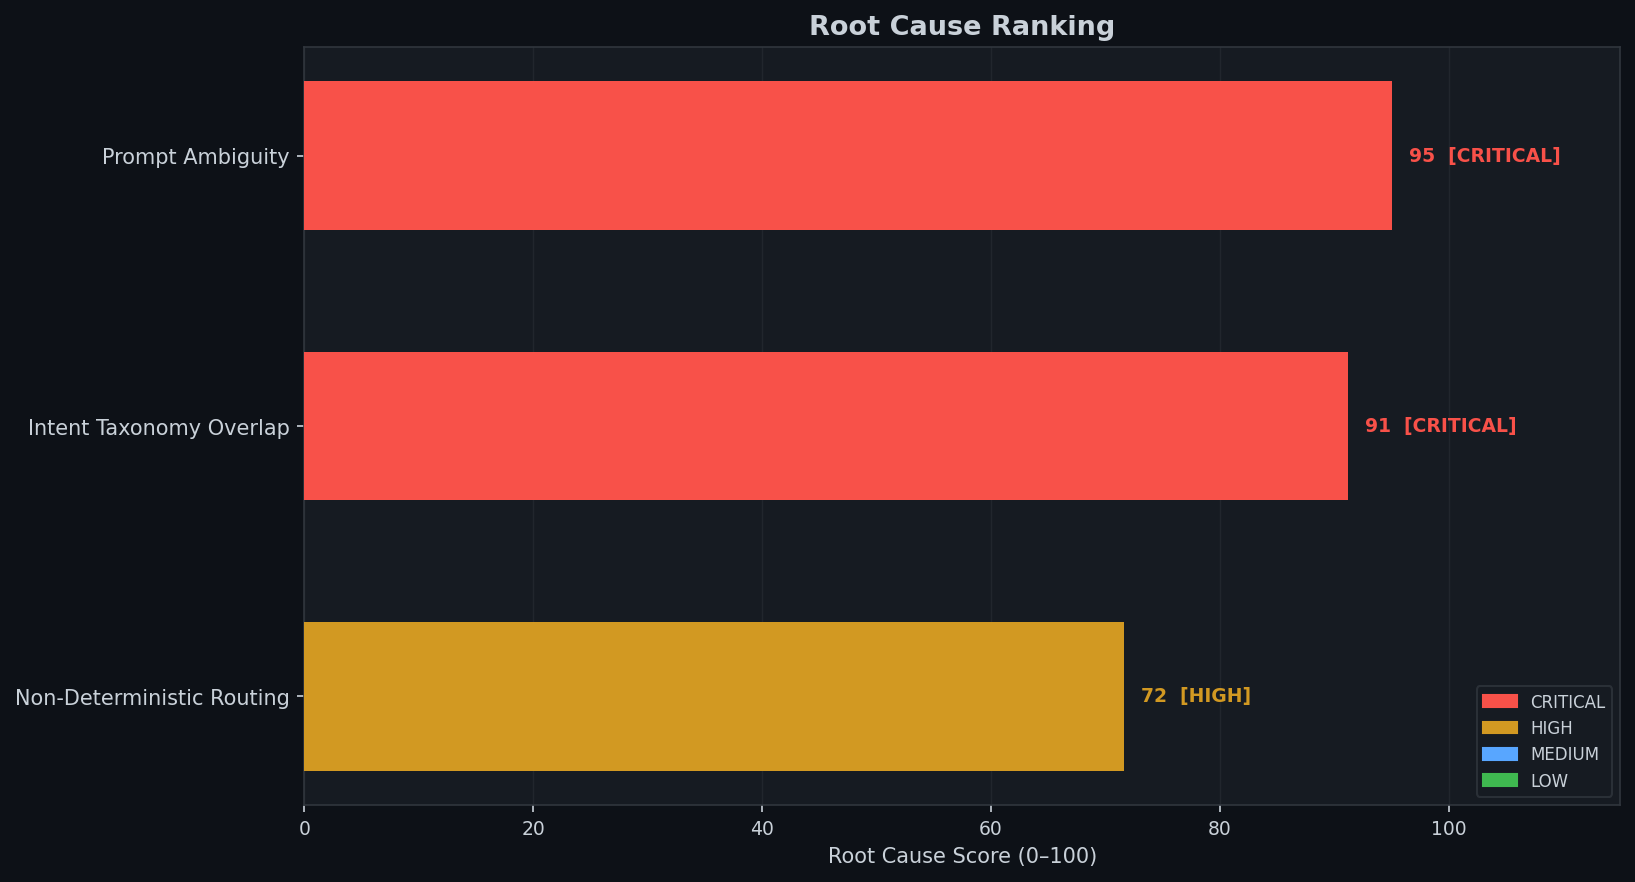
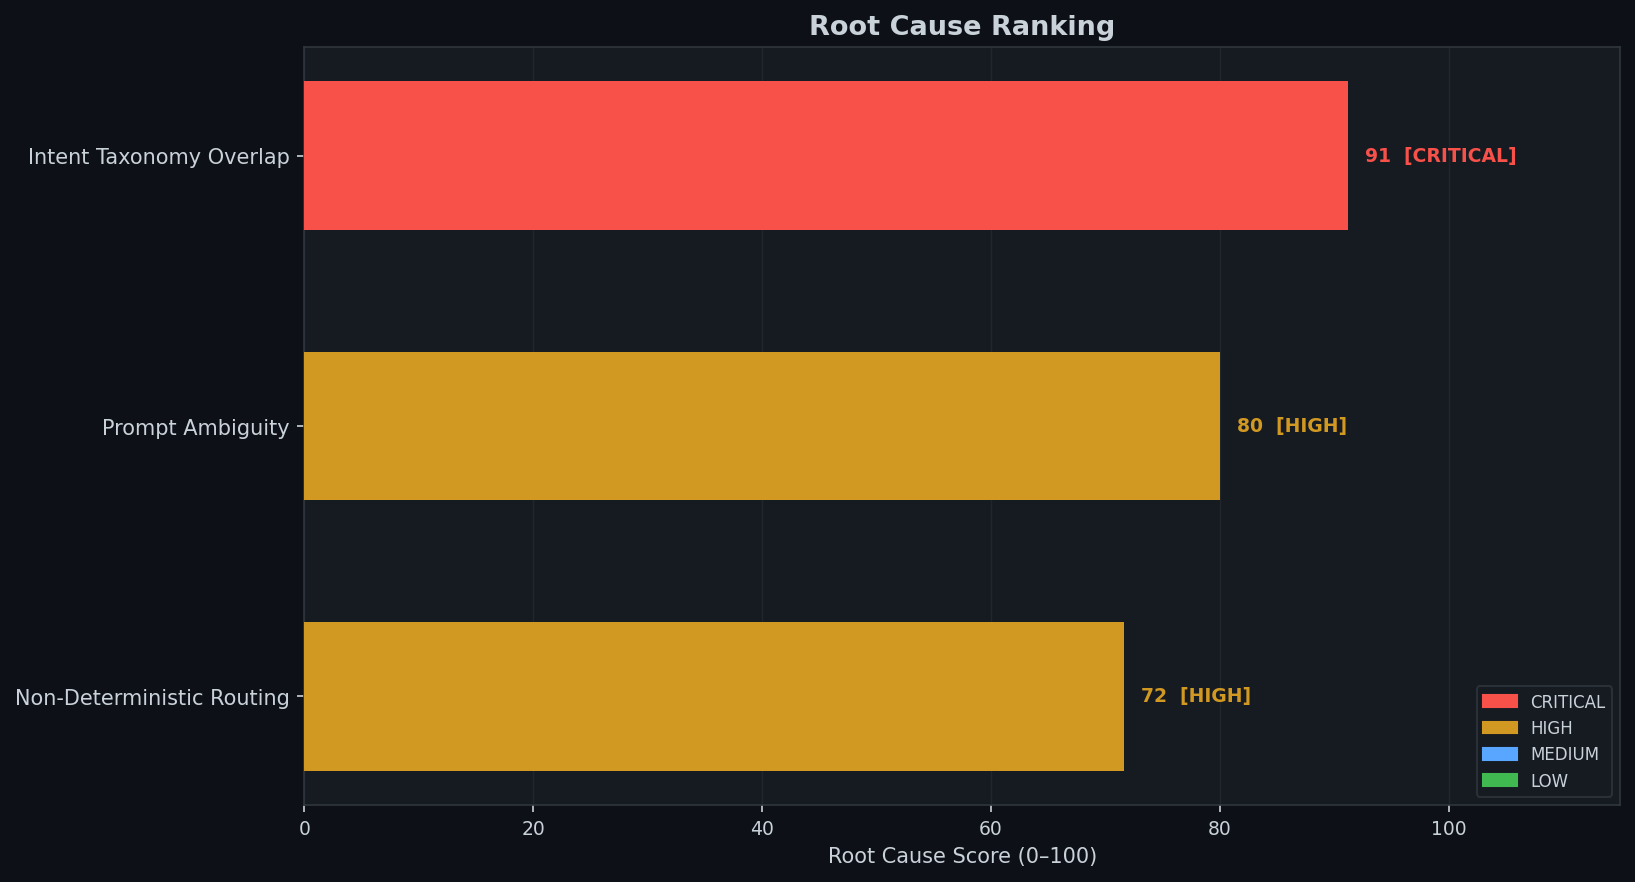
asd

Changed region(s): [[0.0312, 0.398, 0.9358, 0.5816], [0.811, 0.0918, 0.967, 0.2755], [0.0312, 0.1531, 0.1872, 0.1837]]

diff --git a/situation-02-root-cause-analysis/reports/root_cause_analysis_report.md b/situation-02-root-cause-analysis/reports/root_cause_analysis_report.md
@@ -1,16 +1,16 @@
 # ROOT CAUSE ANALYSIS REPORT
 ## Situation 2 — AI Quality Engineering Lab
 
-> Generated: 2026-06-27T16:43:10Z
-> Primary Root Cause: **Prompt Ambiguity** — Severity: **CRITICAL**
-> Secondary Root Cause: **Intent Taxonomy Overlap** — Severity: **CRITICAL**
-> Overall Impact: **CRITICAL**  |  Analysis Confidence: **HIGH**
+> Generated: 2026-06-27T18:31:47Z
+> Primary Root Cause: **Intent Taxonomy Overlap** — Severity: **CRITICAL**
+> Secondary Root Cause: **Prompt Ambiguity** — Severity: **HIGH**
+> Overall Impact: **CRITICAL**  |  Analysis Confidence: **MEDIUM**
 
 ---
 
 ## Executive Summary
 
-The primary driver of instability is prompt ambiguity. The input activates 3 competing intents simultaneously, providing no unambiguous signal for the classifier to resolve. Controlled experiments demonstrated that removing semantic ambiguity raised consistency from 53% to 100% (Cancel Only), confirming prompt ambiguity as the primary causal driver. Intent taxonomy overlap further amplifies instability by creating competing interpretations for the same user request — billing_issue, cancel_order, and refund_request share significant semantic space. Confidence volatility and routing variance are observable symptoms of these root causes — not independent causes themselves.
+The primary driver of instability is prompt ambiguity. The input activates 3 competing intents simultaneously, providing no unambiguous signal for the classifier to resolve. Intent taxonomy overlap further amplifies instability by creating competing interpretations for the same user request — billing_issue, cancel_order, and refund_request share significant semantic space. Confidence volatility and routing variance are observable symptoms of these root causes — not independent causes themselves.
 
 ---
 
@@ -46,16 +46,7 @@ Prompt Ambiguity
 
 ### Root Causes
 
-#### #1 — Prompt Ambiguity  `[Primary Root Cause]`
-**Severity:** CRITICAL  |  **Score:** 95.0/100
-
-The input activates multiple distinct intents simultaneously. No disambiguation strategy is applied at the input layer — the LLM must resolve genuine semantic uncertainty at inference time. Controlled experiments proved this is the primary causal driver: removing the ambiguity produced near-perfect consistency.
-
-**Evidence:** Ambiguity level: HIGH. 3 intents triggered simultaneously: billing_issue, cancel_order, refund_request. Controlled experiments confirmed causality: removing ambiguity raised consistency from 53% to 100% (Cancel Only). Delta: +47 percentage points.
-
-**Situation 3 Fix:** Implement semantic disambiguation at the input layer. Detect multi-intent inputs and resolve them before classification.
-
-#### #2 — Intent Taxonomy Overlap  `[Secondary Root Cause]`
+#### #1 — Intent Taxonomy Overlap  `[Secondary Root Cause]`
 **Severity:** CRITICAL  |  **Score:** 91.2/100
 
 billing_issue, cancel_order, and refund_request share significant semantic space. When an ambiguous input is presented, the classifier cannot distinguish between them cleanly — producing competing interpretations and split probability mass.
@@ -63,6 +54,15 @@ billing_issue, cancel_order, and refund_request share significant semantic space
 **Evidence:** Primary competing pair: billing_issue ↔ cancel_order (overlap score 45.6%). Top-2 co-occurrence: 64.0% of runs. Pearson r=-0.151.
 
 **Situation 3 Fix:** Redefine intent boundaries with mutually exclusive semantic criteria. Add explicit decision rules for overlapping domains.
+
+#### #2 — Prompt Ambiguity  `[Primary Root Cause]`
+**Severity:** HIGH  |  **Score:** 80.0/100
+
+The input activates multiple distinct intents simultaneously. No disambiguation strategy is applied at the input layer — the LLM must resolve genuine semantic uncertainty at inference time. Controlled experiments proved this is the primary causal driver: removing the ambiguity produced near-perfect consistency.
+
+**Evidence:** Ambiguity level: HIGH. 3 intents triggered simultaneously: billing_issue, cancel_order, refund_request. 
+
+**Situation 3 Fix:** Implement semantic disambiguation at the input layer. Detect multi-intent inputs and resolve them before classification.
 
 ### Contributing Factors
 
@@ -146,24 +146,9 @@ Primary overlap: **billing_issue ↔ cancel_order** (score: 45.6%)
 
 ---
 
-## Experiment Results
-
-Controlled experiment baseline: **53.3%** *(15 controlled runs on ambiguous input — see Situation 1 for the 50-run live measurement)*
-
-> Experiments isolate the causal contribution of prompt ambiguity. If removing a semantic element dramatically increases consistency, that element is a primary causal factor.
-
-| Experiment | Input (truncated) | Consistency | Unique Intents | Delta vs Baseline | Validated |
-|-----------|-------------------|-------------|---------------|-------------------|----------|
-| EXP-00 Baseline | `Fui cobrado errado e quero cancelar minh...` | 53.3% | 4 | +0.0% | NO |
-| EXP-01 Cancel Only | `Quero cancelar minha assinatura...` | 100.0% | 1 | +46.7% | YES |
-| EXP-02 Billing Only | `Recebi uma cobrança indevida...` | 86.7% | 3 | +33.3% | YES |
-| EXP-03 Explicit Refund | `Quero um reembolso pela cobrança indevid...` | 100.0% | 1 | +46.7% | YES |
-
----
-
 ## Engineering Conclusion
 
-The primary driver of instability is prompt ambiguity. The input activates 3 competing intents simultaneously, providing no unambiguous signal for the classifier to resolve. Controlled experiments demonstrated that removing semantic ambiguity raised consistency from 53% to 100% (Cancel Only), confirming prompt ambiguity as the primary causal driver. Intent taxonomy overlap further amplifies instability by creating competing interpretations for the same user request — billing_issue, cancel_order, and refund_request share significant semantic space. Confidence volatility and routing variance are observable symptoms of these root causes — not independent causes themselves.
+The primary driver of instability is prompt ambiguity. The input activates 3 competing intents simultaneously, providing no unambiguous signal for the classifier to resolve. Intent taxonomy overlap further amplifies instability by creating competing interpretations for the same user request — billing_issue, cancel_order, and refund_request share significant semantic space. Confidence volatility and routing variance are observable symptoms of these root causes — not independent causes themselves.
 
 ---
 
@@ -171,8 +156,8 @@ The primary driver of instability is prompt ambiguity. The input activates 3 com
 
 The following interventions should be addressed in priority order:
 
-1. Implement semantic disambiguation at the input layer. Detect multi-intent inputs and resolve them before classification.
-2. Redefine intent boundaries with mutually exclusive semantic criteria. Add explicit decision rules for overlapping domains.
+1. Redefine intent boundaries with mutually exclusive semantic criteria. Add explicit decision rules for overlapping domains.
+2. Implement semantic disambiguation at the input layer. Detect multi-intent inputs and resolve them before classification.
 3. Add routing priority rules and confidence threshold guards. Define explicit tiebreakers when multiple intents are viable.
 
 ---